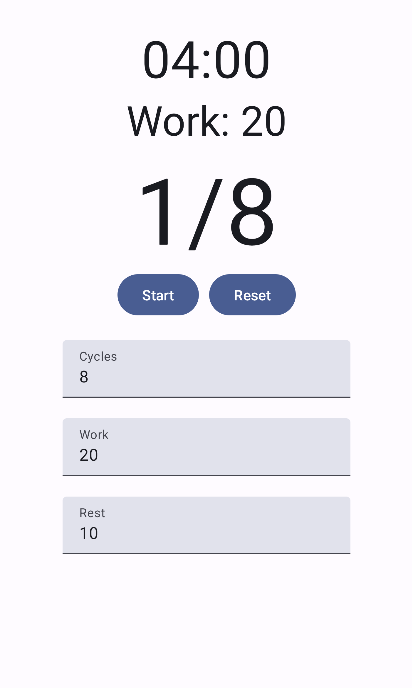
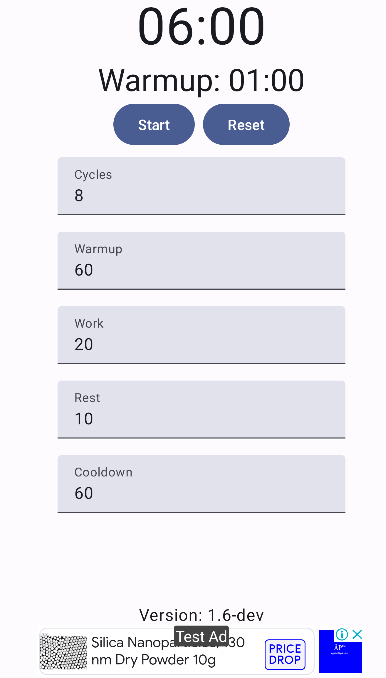
Feature: AdMob Integration and Internal Refinements
User-Visible Changes:
- Upgraded app version from 1.5 to 1.6.
- Integrated Google AdMob advertisements at the bottom of the screen.
- Adjusted UI padding to accommodate the ad banner.
- Updated app screen capture in README.md.

Internal Changes:
- Introduced secure.properties for sensitive data, excluding it from git. Added
  secure.properties.example and developer guidelines to README.md.
- Revoked and updated Sentry DSN following a leak on GitHub.
- Automated BuildConfig.java generation.
- Modified code to retrieve version number from BuildConfig.
- Refactored error handling to focus on Exceptions over Throwables

diff --git a/app/src/main/java/com/example/marshallsmetronome/MainActivity.kt b/app/src/main/java/com/example/marshallsmetronome/MainActivity.kt
@@ -1,8 +1,6 @@
 package com.example.marshallsmetronome
 
-
 import android.content.Context
-import android.content.pm.PackageManager
 import android.media.MediaPlayer
 import android.net.Uri
 import android.os.Bundle
@@ -34,7 +32,6 @@ import androidx.compose.runtime.remember
 import androidx.compose.ui.Alignment
 import androidx.compose.ui.Modifier
 import androidx.compose.ui.graphics.Color
-import androidx.compose.ui.platform.LocalContext
 import androidx.compose.ui.semantics.contentDescription
 import androidx.compose.ui.semantics.semantics
 import androidx.compose.ui.text.TextStyle
@@ -45,7 +42,13 @@ import androidx.compose.ui.text.style.TextOverflow
 import androidx.compose.ui.tooling.preview.Preview
 import androidx.compose.ui.unit.dp
 import androidx.compose.ui.unit.sp
+import androidx.compose.ui.viewinterop.AndroidView
 import com.example.marshallsmetronome.ui.theme.MarshallsMetronomeTheme
+import com.google.android.gms.ads.AdRequest
+import com.google.android.gms.ads.AdSize
+import com.google.android.gms.ads.AdView
+import com.google.android.gms.ads.MobileAds
+import com.google.android.gms.ads.RequestConfiguration
 import com.google.firebase.crashlytics.FirebaseCrashlytics
 import io.sentry.Sentry
 import io.sentry.android.core.SentryAndroid
@@ -87,18 +90,17 @@ class MainActivity : ComponentActivity() {
     override fun onCreate(savedInstanceState: Bundle?) {
         super.onCreate(savedInstanceState)
 
+        // Initialize the Mobile Ads SDK.
+        MobileAds.initialize(this) {}
+
         try {
             mediaPlayer = MediaPlayer()
         } catch (e: Exception) {
-            reportError(errorMessage, e)
-        } catch (e: Throwable) {
             reportError(errorMessage, e)
         }
         setContent {
             // Setup sentry
             SentryAndroid.init(this) { options ->
-                options.dsn = "https://b8f8c3b1376e020d8d215bc1badc5108@" +
-                    "o4506185094266880.ingest.sentry.io/4506185118515200" // Your DSN from Sentry
                 options.isDebug = true // Enable Sentry debug mode
                 // Set tracesSampleRate to 1.0 to capture 100% of transactions for performance monitoring.
                 // We recommend adjusting this value in production.
@@ -130,6 +132,35 @@ class MainActivity : ComponentActivity() {
 
         super.onDestroy()
     }
+}
+
+/**
+ * A Composable function that creates an Ad Banner using Google's Mobile Ads SDK.
+ *
+ * This function creates an AndroidView and initializes it with an AdView. The AdView is configured
+ * with the necessary parameters such as ad size, ad unit ID, and request configuration for test devices.
+ * The ad is then loaded and displayed in the AndroidView.
+ *
+ * The ad unit ID and test device IDs are retrieved from the BuildConfig.
+ */
+@Composable
+fun AdBanner() {
+    AndroidView(
+        factory = { context ->
+            // Initialize the request configuration for test device.
+            val deviceIds = BuildConfig.TEST_DEVICE_IDS.split(',')
+            val requestConfiguration = RequestConfiguration.Builder()
+                .setTestDeviceIds(deviceIds)
+                .build()
+            MobileAds.setRequestConfiguration(requestConfiguration)
+
+            AdView(context).apply {
+                setAdSize(AdSize.BANNER)
+                adUnitId = BuildConfig.ADMOB_AD_UNIT_ID
+                loadAd(AdRequest.Builder().build())
+            }
+        }
+    )
 }
 
 /**
@@ -405,21 +436,7 @@ object CoroutineUtils {
 /**
  * Return the version number of our app.
  */
-// We specifically want to catch the NameNotFoundException exception here, and return
-// "Unknown" if we can't get the version number. We don't care about the other details
-// related to the exception. Also, we catch the NullPointerException so that we can
-// show the Preview.-
-@Suppress("SwallowedException")
-fun getAppVersion(context: Context): String {
-    val unknown = "Unknown"
-    return try {
-        val packageManager = context.packageManager
-        val packageInfo = packageManager?.getPackageInfo(context.packageName, 0)
-        packageInfo?.versionName ?: unknown
-    } catch (e: PackageManager.NameNotFoundException) {
-        unknown
-    }
-}
+fun getAppVersion(): String = BuildConfig.VERSION_NAME
 
 /**
  * Display the total time remaining for the entire workout.
@@ -466,7 +483,7 @@ fun ControlButtons(
             Text(text = viewModel.buttonText, modifier = modifier)
         }
 
-        Spacer(modifier = modifier.width(10.dp))
+        Spacer(modifier = modifier.width(8.dp))
 
         Button(
             onClick = {
@@ -536,7 +553,7 @@ class InputTextFieldCreator(
             keyboardOptions = KeyboardOptions(keyboardType = KeyboardType.Number),
             singleLine = true,
             label = { Text(text = label) },
-            modifier = modifier.padding(top = 20.dp),
+            modifier = modifier.padding(8.dp),
             enabled = viewModel.textInputControlsEnabled,
             isError = errorInfo.hasError,
             supportingText = errorTextComposable,
@@ -611,8 +628,7 @@ fun MarshallsMetronome(
     val timerState = viewModel.runningState.value?.timerState?.collectAsState()
 
     // Get and remember (don't keep recomputing) the app version number:
-    val context = LocalContext.current
-    val appVersion = remember { getAppVersion(context) }
+    val appVersion = remember { getAppVersion() }
 
     // Enable automatic coroutine error handlers to update the UI:
     CoroutineUtils.errorMessage = errorMessage
@@ -637,7 +653,7 @@ fun MarshallsMetronome(
     Column(
         horizontalAlignment = Alignment.CenterHorizontally,
         modifier = modifier
-            .padding(30.dp)
+            .padding(8.dp)
             .verticalScroll(rememberScrollState()),
     ) {
         // Total time remaining
@@ -689,6 +705,8 @@ fun MarshallsMetronome(
             maxLines = 1,
             overflow = TextOverflow.Ellipsis,
         )
+
+        AdBanner()
     }
 }
 

diff --git a/README.md b/README.md
@@ -25,3 +25,13 @@ Developed using Android Studio, with assistance from tools like GitHub Copilot f
 Thank you for taking the time to look at "Marshall's Metronome." For more information about my work and other projects, visit my [GitHub Profile](https://github.com/wizzardx/).
 
 For questions, feedback, or bug reports related to this app, please feel free to open an issue in the [GitHub repository](https://github.com/wizzardx/MarshallsMetronome/issues).
+
+## For Developers
+If you're interested in contributing to the development of "Marshall's Metronome," please note the following requirements:
+
+- **Sentry Account**: For error tracking and monitoring.
+- **Firebase Account**: For analytics and crash reporting.
+- **AdMob Account**: For integrating and managing advertisements.
+- **Configuration File**: Use `secure.properties.example` as a template to create your own `secure.properties` file with necessary API keys and IDs from the above accounts.
+
+These accounts and configurations are essential for full functionality and testing of the app.
